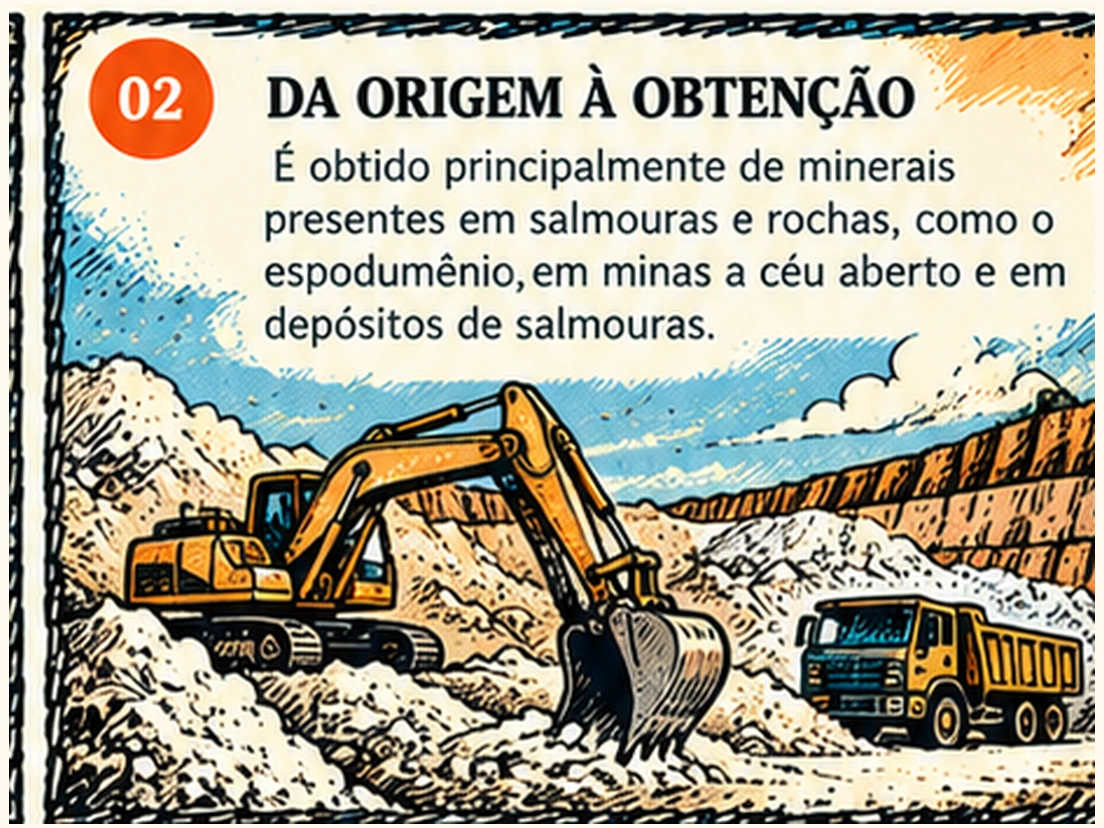
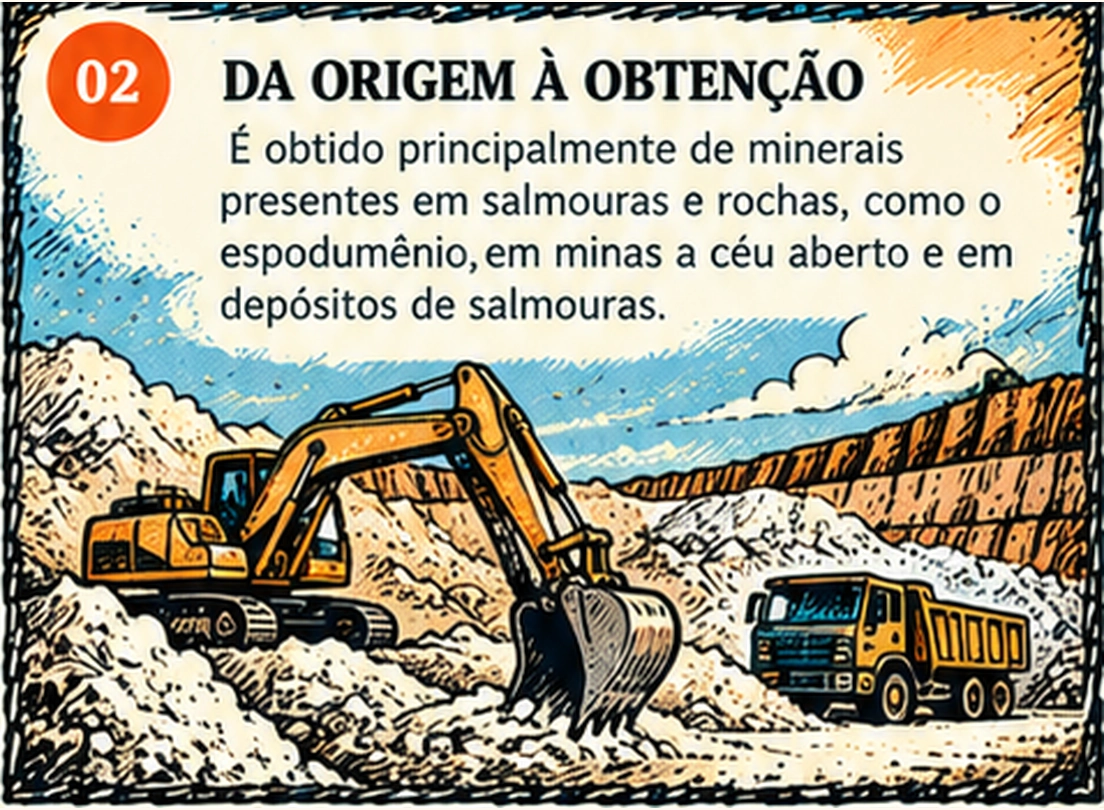
fix(folheto-003): restaura molduras completas e elimina deslocamento dos quadros
Extrai as duas artes diretamente da página de referência aprovada (limites completos); corrige o corte inferior e lateral do quadro 02. Prepara imagens 1104x810 na proporção dos slots 92x67,5 mm, remove translateX/scaleX, invalida o cache e acrescenta verificação real da tinta na borda inferior, além da geometria HTML.

diff --git a/assets/element-page.css b/assets/element-page.css
@@ -628,14 +628,14 @@ body.element-page[data-palette=blueyellow] .ep-state img,body.element-page[data-
  * Modelo aprovado: cada quadrinho é UMA imagem integral com numeral, título,
  * texto e cena. O elemento principal e os dados químicos NÃO mudam.
  *
- * Grade fechada A4: 15+8+96+65+69+13 = 266 mm.
+ * Grade fechada A4: 15+8+96+65+67,5+14,5 = 266 mm.
  * Margens internas 20 mm + 5 intervalos de 2 mm = 296 mm.
- * Área dos quadros: 92 mm x 69 mm, com proporção de 1,333.
- * Arte fonte com moldura completa: 468x351 e 465x351, sem recorte inferior.
+ * Área dos quadros: 92 mm x 67,5 mm, com proporção de 1,363.
+ * Fonte integral da página aprovada: 475x349 e 478x349; 1104x810 na impressão.
  */
 @media print {
   body.element-page > .ep-print-sheet.ep-print-prototype[data-element="003"][data-print-phase="piloto-quadros-integrais"]{
-    grid-template-rows:15mm 8mm 96mm 65mm 69mm 13mm!important;
+    grid-template-rows:15mm 8mm 96mm 65mm 67.5mm 14.5mm!important;
   }
   .ep-print-sheet[data-element="003"][data-print-phase="piloto-quadros-integrais"] .ep-print-stories{
     display:grid!important;grid-template-columns:repeat(2,minmax(0,1fr))!important;
@@ -669,40 +669,5 @@ body.element-page[data-palette=blueyellow] .ep-state img,body.element-page[data-
     object-fit:contain!important;object-position:center center!important;
     image-rendering:auto!important;
     transform:none!important;
-  }
-}
-/* Artes 003 preparadas em 1104×828 px, proporção 4:3 correspondente aos
-   92×69 mm de cada slot A4. O arquivo já contém margem de segurança mínima
-   para que a borda inferior e os laterais permaneçam totalmente visíveis. */
-
-/*
- * Ajuste localizado de alinhamento, Lítio (003).
- * As duas molduras têm exatamente 92×69mm e o mesmo top/bottom; o ajuste
- * óptico do painel 02 compensa a margem assimétrica que veio da matriz
- * raster original, sem modificar os textos, arte principal ou folha A4.
- */
-@media print {
-  .ep-print-sheet[data-element="003"][data-print-phase="piloto-quadros-integrais"] .ep-print-stories{
-    width:100%!important;height:100%!important;
-    display:grid!important;grid-template-columns:repeat(2,minmax(0,1fr))!important;
-    align-items:stretch!important;justify-items:stretch!important;
-    column-gap:2mm!important;row-gap:0!important;
-  }
-  .ep-print-sheet[data-element="003"][data-print-phase="piloto-quadros-integrais"] .ep-print-story{
-    width:100%!important;height:100%!important;min-width:0!important;
-    box-sizing:border-box!important;
-  }
-  .ep-print-sheet[data-element="003"][data-print-phase="piloto-quadros-integrais"] .ep-print-story-art{
-    inset:0!important;overflow:visible!important;
-  }
-  .ep-print-sheet[data-element="003"][data-print-phase="piloto-quadros-integrais"] .ep-print-approved-art{
-    display:block!important;vertical-align:top!important;
-    width:100%!important;height:100%!important;
-    object-fit:contain!important;object-position:center center!important;
-    margin:0!important;border:0!important;
-  }
-  .ep-print-sheet[data-element="003"][data-print-phase="piloto-quadros-integrais"] .ep-print-story:nth-child(2) .ep-print-approved-art{
-    transform:translateX(.55%) scaleX(.995)!important;
-    transform-origin:center center!important;
   }
 }

diff --git a/assets/element-page.js b/assets/element-page.js
@@ -200,7 +200,7 @@
         figure.className='ep-print-approved-art';
         figure.alt='';
         figure.loading='eager';figure.decoding='sync';
-        figure.src='../../assets/folhetos/cenas/003-0'+(i+1)+'.webp?fit=4x3-v1';
+        figure.src='../../assets/folhetos/cenas/003-0'+(i+1)+'.webp?fit=full-border-v2';
         figure.addEventListener('load',()=>{
           if(figure.naturalWidth>0){
             slot.replaceChildren(figure);

diff --git a/sw.js b/sw.js
@@ -1,4 +1,4 @@
-const CACHE='cordel-varal-v27-litio-alinhamento';
+const CACHE='cordel-varal-v28-litio-bordas-integrais';
 const ROOT=new URL('./',self.location.href).href;
 // Critical UI files must be revalidated online, not served indefinitely from
 // an older app-shell cache. Offline fallback keeps the PWA usable.
